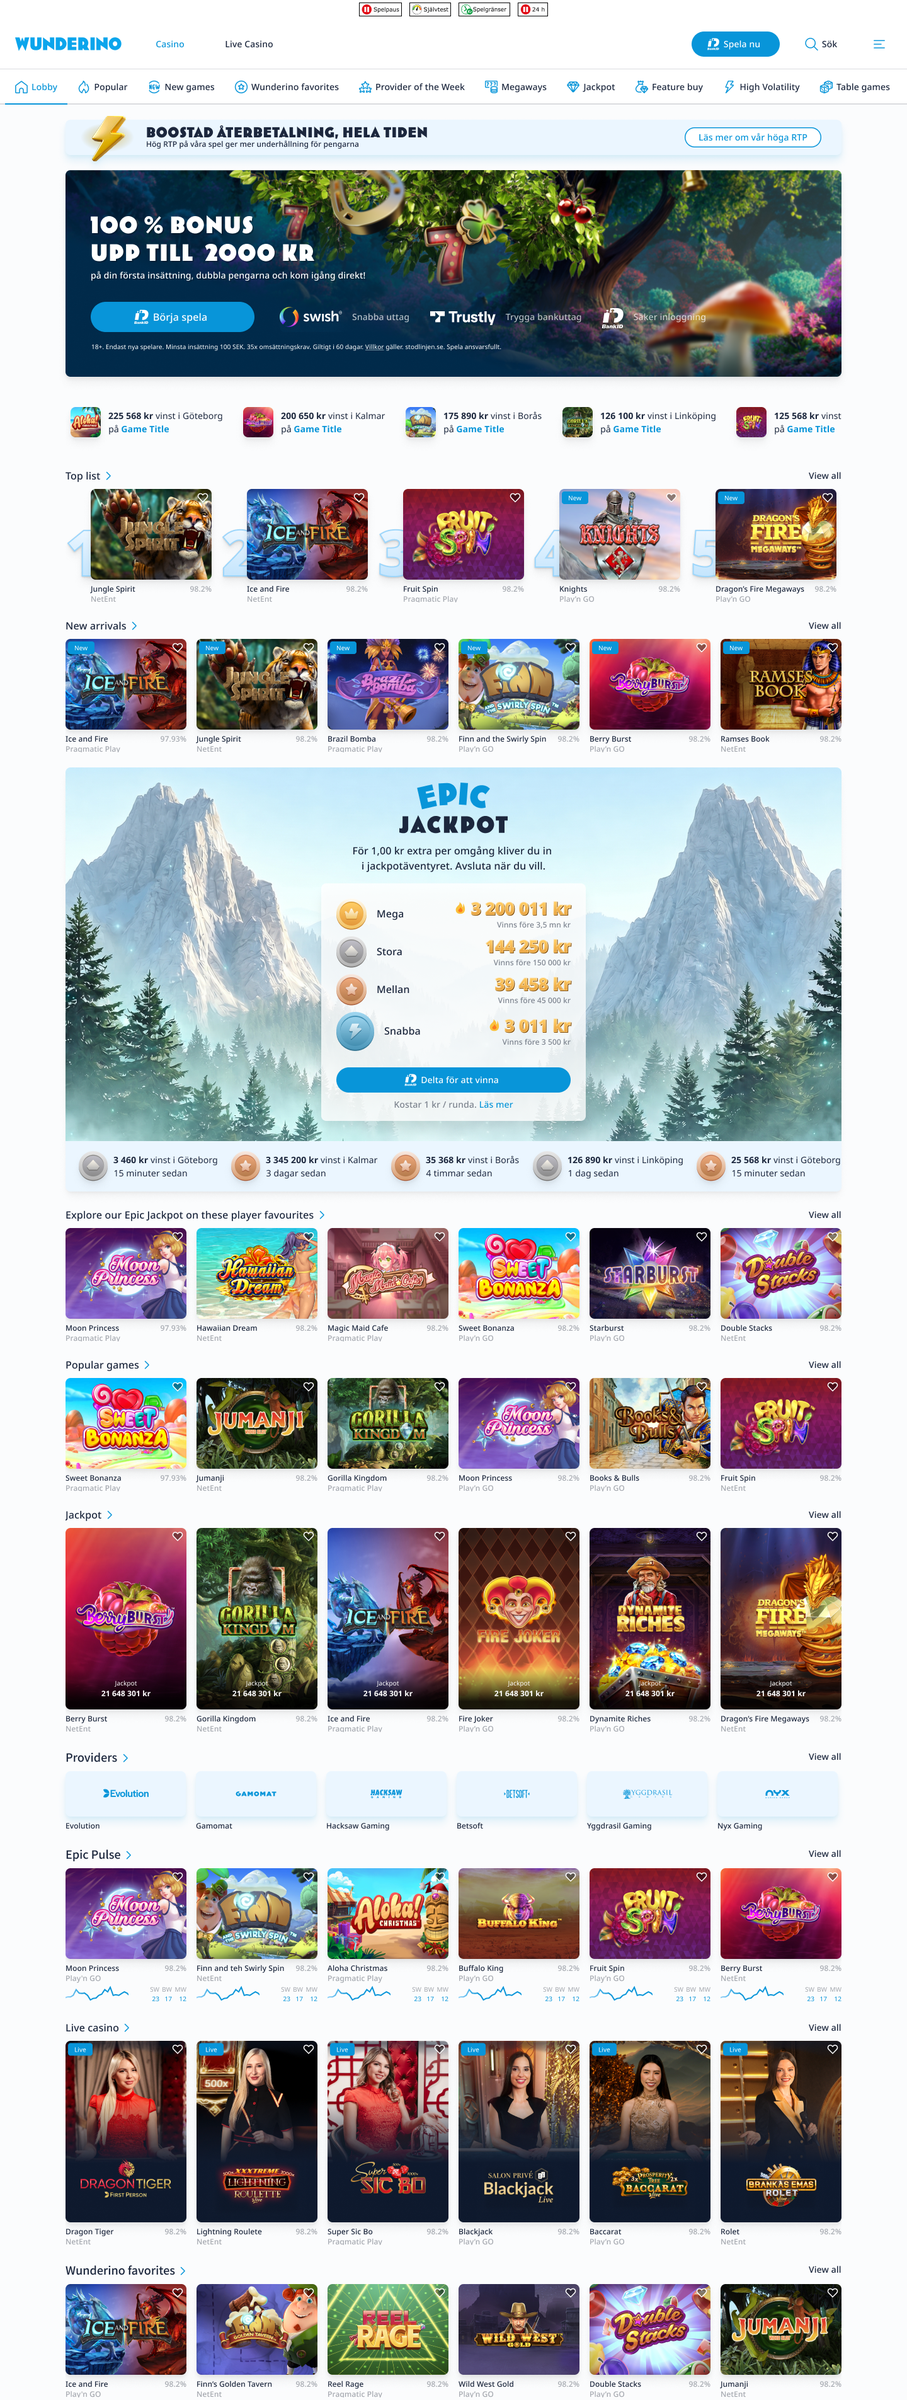
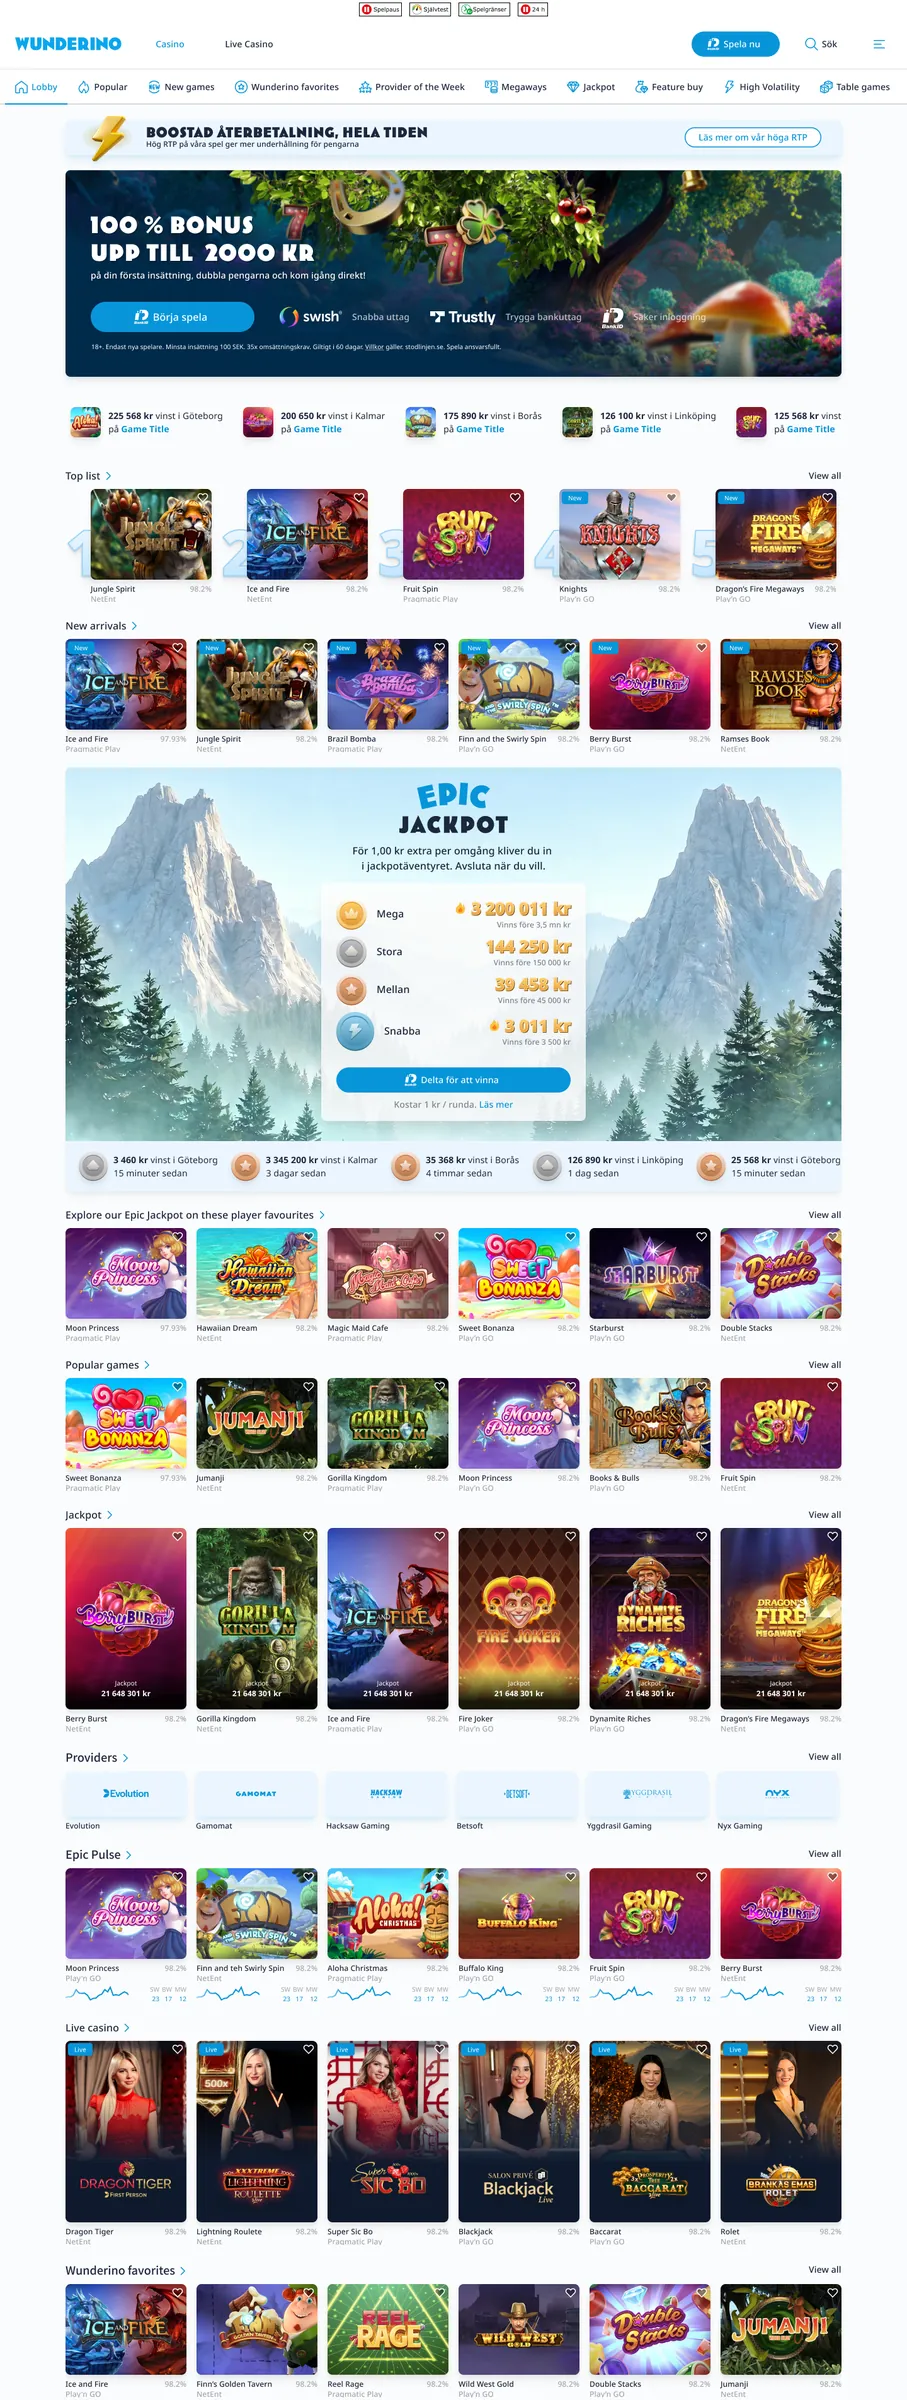
Re-encode the four 1MB+ case images (F4): 6.6MB -> 0.7MB
Three were lossless webp at screenshot sizes; now lossy q80 at the
rendered size (the onboarding session photo also downscaled 2294->1600,
IMG_DIMS synced). No visible quality loss.

diff --git a/js/main.js b/js/main.js
@@ -737,7 +737,7 @@ const IMG_DIMS = {
   "reimagining-onboarding/affinity.webp": [1920, 978], "reimagining-onboarding/affinity-cut.webp": [1719, 564], "reimagining-onboarding/ab-test.webp": [1920, 1159],
   "reimagining-onboarding/iteration-6.webp": [1920, 1165], "reimagining-onboarding/iteration-7.webp": [1920, 937],
   "reimagining-onboarding/reg-step1.webp": [375, 779], "reimagining-onboarding/reg-step2.webp": [375, 1177],
-  "reimagining-onboarding/usability-session.webp": [2294, 1718],
+  "reimagining-onboarding/usability-session.webp": [1600, 1198],
 };
 function imgTag(src, alt) {
   const d = IMG_DIMS[src.split("/").slice(-2).join("/")];

diff --git a/index.html b/index.html
@@ -269,6 +269,6 @@
     { "imports": { "three": "./vendor/three.module.js?v=14" } }
   </script>
   <script type="module" src="js/scene.js?v=17"></script>
-  <script type="module" src="js/main.js?v=21"></script>
+  <script type="module" src="js/main.js?v=22"></script>
 </body>
 </html>
